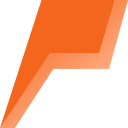
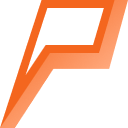
feat: 익스텐션 default 아이콘을 비어있는 아이콘으로 변경

Changed region(s): [[0.1875, 0.0625, 0.8125, 0.5938]]

diff --git a/frontend/techpick-extension/src/chrome-extension/background.ts b/frontend/techpick-extension/src/chrome-extension/background.ts
@@ -71,12 +71,12 @@ chrome.tabs.onUpdated.addListener(async (_tabId, changeInfo, tab) => {
         const { exist } = await checkPickByUrl(tab.url);
 
         if (exist) {
-          chrome.action.setIcon({ path: './pick128.png', tabId: tab.id });
-        } else {
           chrome.action.setIcon({
-            path: './uncheckedPick128.png',
+            path: './checkedPick128.png',
             tabId: tab.id,
           });
+        } else {
+          chrome.action.setIcon({ path: './pick128.png', tabId: tab.id });
         }
       } catch {
         /* empty */
@@ -98,12 +98,12 @@ chrome.tabs.onActivated.addListener(async (activeInfo) => {
         const { exist } = await checkPickByUrl(tab.url);
 
         if (exist) {
-          chrome.action.setIcon({ path: './pick128.png', tabId: tab.id });
-        } else {
           chrome.action.setIcon({
-            path: './uncheckedPick128.png',
+            path: './checkedPick128.png',
             tabId: tab.id,
           });
+        } else {
+          chrome.action.setIcon({ path: './pick128.png', tabId: tab.id });
         }
       } catch {
         /* empty */
@@ -122,7 +122,7 @@ chrome.runtime.onConnect.addListener(async function changeIcon(port) {
 
   const currentTabInfo = await getCurrentTabInfo();
   chrome.action.setIcon({
-    path: './pick128.png',
+    path: './checkedPick128.png',
     tabId: currentTabInfo.id,
   });
 });
